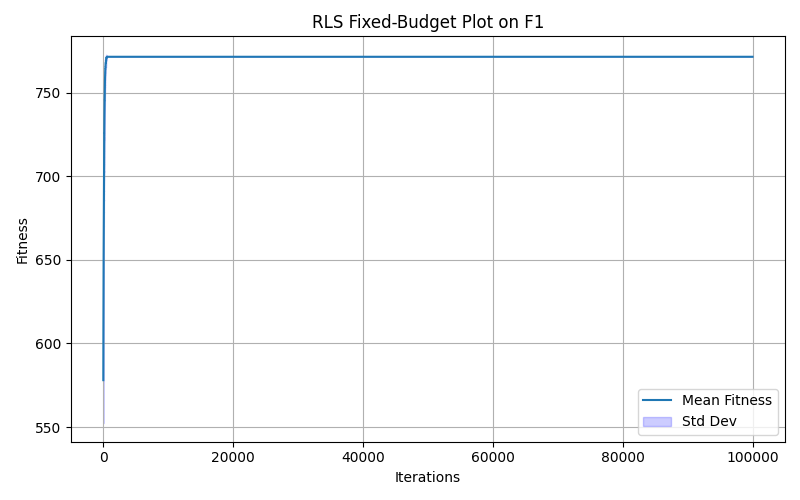
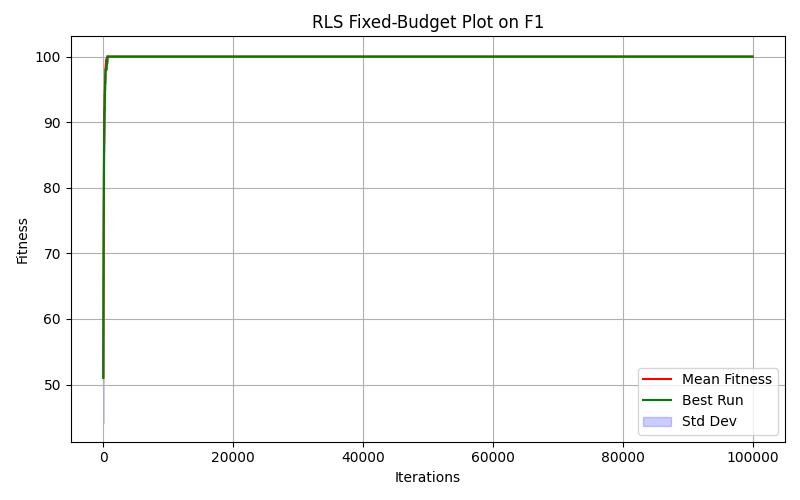
Plots look better

diff --git a/Assignment2/code/Exercise2(RLS)/RLS_Test.py b/Assignment2/code/Exercise2(RLS)/RLS_Test.py
@@ -14,7 +14,8 @@ ITERATIONS = 100000
 
 
 def run_experiment(fid, dimension, iterations, runs):
-    problem = ioh.get_problem(fid=fid, dimension=dimension)
+   # problem = ioh.get_problem(fid=fid, dimension=dimension)
+    problem = ioh.get_problem(fid=fid, dimension=dimension, problem_class=ioh.ProblemClass.PBO)
 
     all_traces = []
     for run in range(runs):
@@ -26,18 +27,21 @@ def run_experiment(fid, dimension, iterations, runs):
     all_traces = np.array(all_traces)
     mean_trace = np.mean(all_traces, axis=0)
     std_trace = np.std(all_traces, axis=0)
+    best_trace = all_traces[np.argmax([trace[-1] for trace in all_traces])]
 
-    return mean_trace, std_trace
+
+    return mean_trace, std_trace, best_trace
 
 # Plot mean ± standard deviation of RLS performance (fixed-budget plot)
-def plot_fixed_budget(fid, mean_trace, std_trace):
+def plot_fixed_budget(fid, mean_trace, std_trace, best_trace):
     save_dir = "plots_RLS"
     if not os.path.exists(save_dir):
         os.makedirs(save_dir)
 
     x = np.arange(len(mean_trace)) # x-axis = iterations (10000)
     plt.figure(figsize=(8, 5))
-    plt.plot(x, mean_trace, label='Mean Fitness')
+    plt.plot(x, mean_trace, label='Mean Fitness', color='r')
+    plt.plot(x, best_trace, label='Best Run', color='g')
     plt.fill_between(x, mean_trace - std_trace, mean_trace + std_trace,
                      color='b', alpha=0.2, label='Std Dev')
     plt.xlabel('Iterations')
@@ -57,11 +61,11 @@ def main():
     dimension = 100
     iterations = 100000
     runs = 10
-    functions = [1, 2, 3, 18, 23, 24] # have not got 25 working yet
+    functions = [1, 2, 3, 18, 23, 24, 25] # have not got 25 working yet
 
     for fid in functions:
-        mean_trace, std_trace = run_experiment(fid, dimension, iterations, runs)
-        plot_fixed_budget(fid, mean_trace, std_trace)
+        mean_trace, std_trace, best_trace = run_experiment(fid, dimension, iterations, runs)
+        plot_fixed_budget(fid, mean_trace, std_trace, best_trace)
         print(f"Finished plotting F{fid}")
 
 if __name__ == "__main__":
